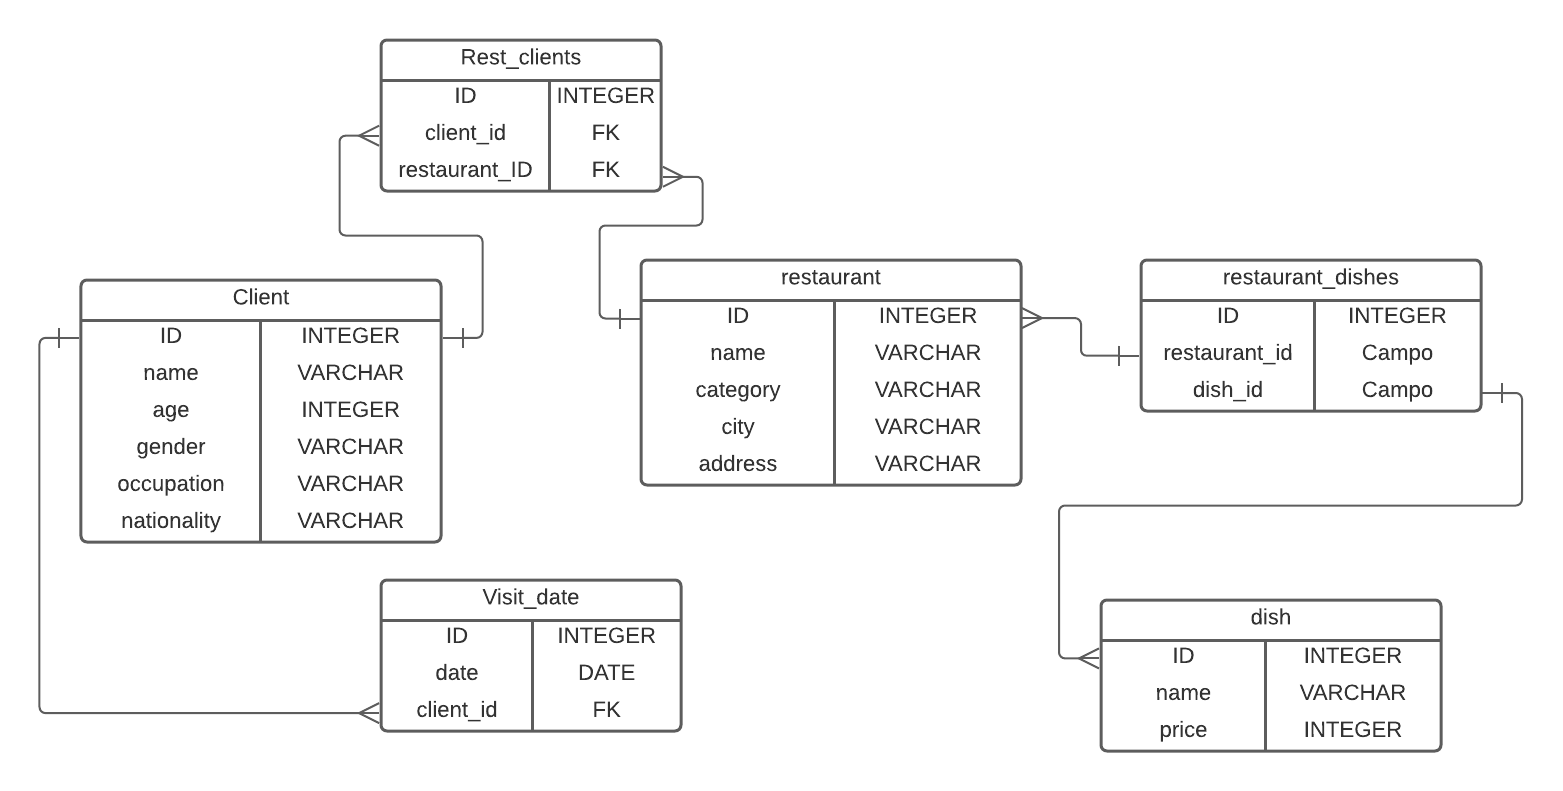
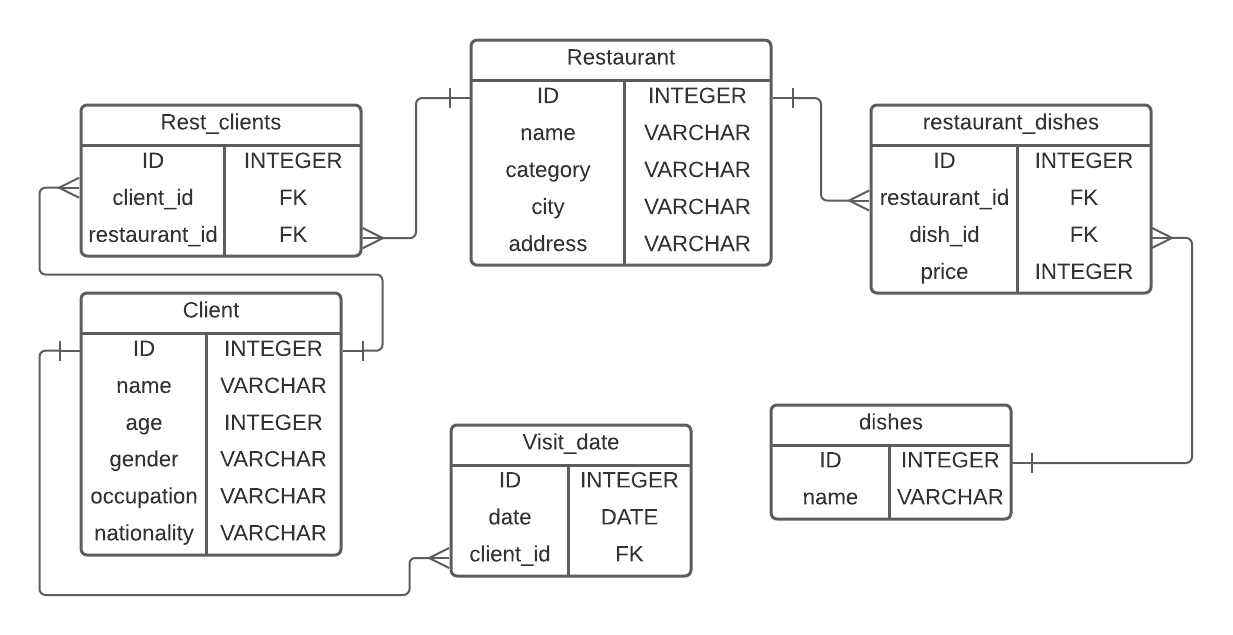
Modification ERD, insert_data, Create.sql & create top_by_visitors

Changed region(s): [[0.0308, 0.0299, 0.9862, 0.9575]]

diff --git a/restaurant_insights.rb b/restaurant_insights.rb
@@ -107,9 +107,22 @@ class InsightsApp
   end
 
   def top10_by_visitors
+    
+    result = @db.exec(%(
+      SELECT
+      r.name, count(rc.client_id) as visitors
+      FROM restaurant as r
+      JOIN rest_clients as rc on r.id = rc.restaurant_id
+      GROUP BY r.name 
+      ORDER BY visitors DESC
+      LIMIT 10))
+
     table = Terminal::Table.new
     table.title = "Top 10 restaurants by visitors"
-    table
+    table.headings = result.fields
+    table.rows = result.values
+    table.style = { border: :unicode }
+    puts table
   end
 
   def top10_by_sales

diff --git a/insert_data.rb b/insert_data.rb
@@ -41,8 +41,7 @@ CSV.foreach("data.csv", headers: true) do |row|
   restaurant = insert("restaurant", restaurant_data, "name")
 
   dish_data = {
-    "name" => row["dish"],
-    "price" => row["price"]
+    "name" => row["dish"]
   }
   dish = insert("dish", dish_data, "name")
 
@@ -59,6 +58,7 @@ CSV.foreach("data.csv", headers: true) do |row|
   insert("rest_clients", rest_clients_data)
 
   restaurant_dishes_data = {
+    "price" => row["price"],
     "restaurant_id" => restaurant["id"],
     "dish_id" => dish["id"]
   }
